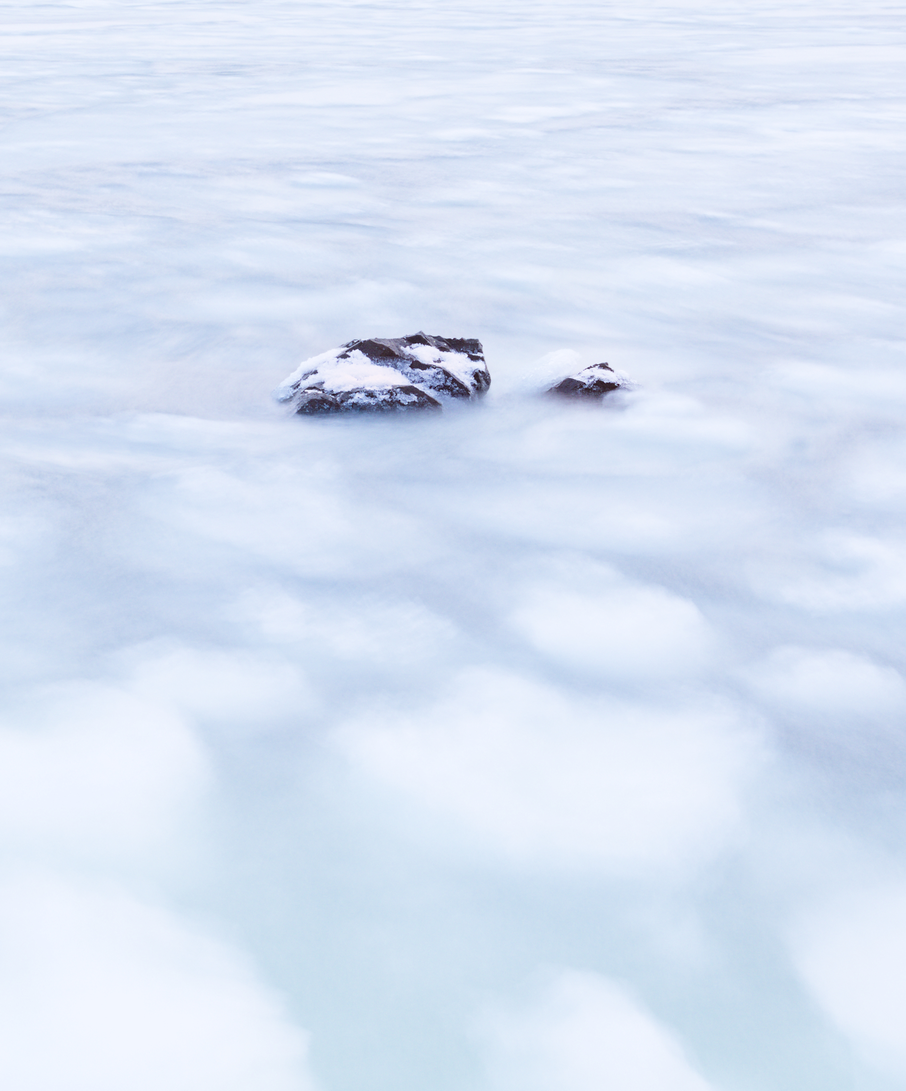
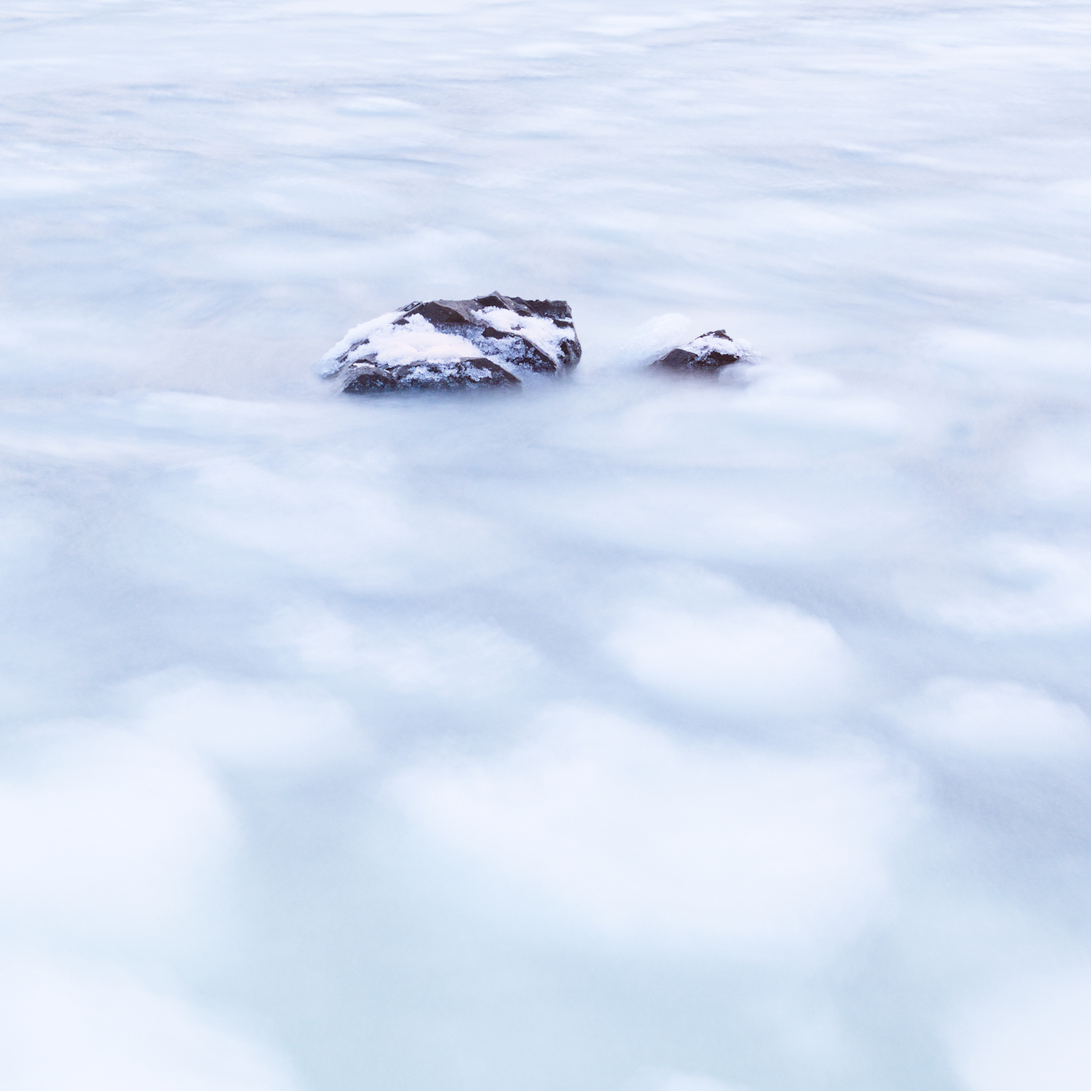
Update images

diff --git a/docs/intimate/index.html b/docs/intimate/index.html
@@ -220,7 +220,7 @@
   
   <a
     class="gatsby-resp-image-link"
-    href="/static/ccfd822f24cb03d1e1080a794dbe7e5f/5ea22/DSC0234.jpg"
+    href="/static/dbece43e5a8e21762452e563e1181516/e00d8/DSC0234.jpg"
     style="display: block"
     target="_blank"
     rel="noopener"
@@ -228,34 +228,36 @@
   
   <span
     class="gatsby-resp-image-wrapper"
-    style="position: relative; display: block;  max-width: 1701px; margin-left: auto; margin-right: auto;"
+    style="position: relative; display: block;  max-width: 2000px; margin-left: auto; margin-right: auto;"
   >
     <span
       class="gatsby-resp-image-background-image"
[2 lines of base64/hex data omitted]
     >
       <picture>
         <source
-          srcset="/static/ccfd822f24cb03d1e1080a794dbe7e5f/601b1/DSC0234.webp 500w,
-/static/ccfd822f24cb03d1e1080a794dbe7e5f/80c60/DSC0234.webp 1000w,
-/static/ccfd822f24cb03d1e1080a794dbe7e5f/cb569/DSC0234.webp 1701w"
-          sizes="(max-width: 1701px) 100vw, 1701px"
+          srcset="/static/dbece43e5a8e21762452e563e1181516/601b1/DSC0234.webp 500w,
+/static/dbece43e5a8e21762452e563e1181516/80c60/DSC0234.webp 1000w,
+/static/dbece43e5a8e21762452e563e1181516/fab06/DSC0234.webp 2000w,
+/static/dbece43e5a8e21762452e563e1181516/60834/DSC0234.webp 2047w"
+          sizes="(max-width: 2000px) 100vw, 2000px"
           type="image/webp"
         />
         <source
-          srcset="/static/ccfd822f24cb03d1e1080a794dbe7e5f/953fe/DSC0234.jpg 500w,
-/static/ccfd822f24cb03d1e1080a794dbe7e5f/0a251/DSC0234.jpg 1000w,
-/static/ccfd822f24cb03d1e1080a794dbe7e5f/5ea22/DSC0234.jpg 1701w"
-          sizes="(max-width: 1701px) 100vw, 1701px"
+          srcset="/static/dbece43e5a8e21762452e563e1181516/953fe/DSC0234.jpg 500w,
+/static/dbece43e5a8e21762452e563e1181516/0a251/DSC0234.jpg 1000w,
+/static/dbece43e5a8e21762452e563e1181516/451a4/DSC0234.jpg 2000w,
+/static/dbece43e5a8e21762452e563e1181516/e00d8/DSC0234.jpg 2047w"
+          sizes="(max-width: 2000px) 100vw, 2000px"
           type="image/jpeg"
         />
         <img
           class="gatsby-resp-image-image"
           style="width: 100%; height: 100%; margin: 0; vertical-align: middle; position: absolute; top: 0; left: 0; box-shadow: inset 0px 0px 0px 400px white;"
-          src="/static/ccfd822f24cb03d1e1080a794dbe7e5f/5ea22/DSC0234.jpg"
+          src="/static/dbece43e5a8e21762452e563e1181516/451a4/DSC0234.jpg"
           alt="Oslo, Norway"
           title="Oslo, Norway"
-          src="/static/ccfd822f24cb03d1e1080a794dbe7e5f/5ea22/DSC0234.jpg"
+          src="/static/dbece43e5a8e21762452e563e1181516/451a4/DSC0234.jpg"
         />
       </picture>
       </span>
